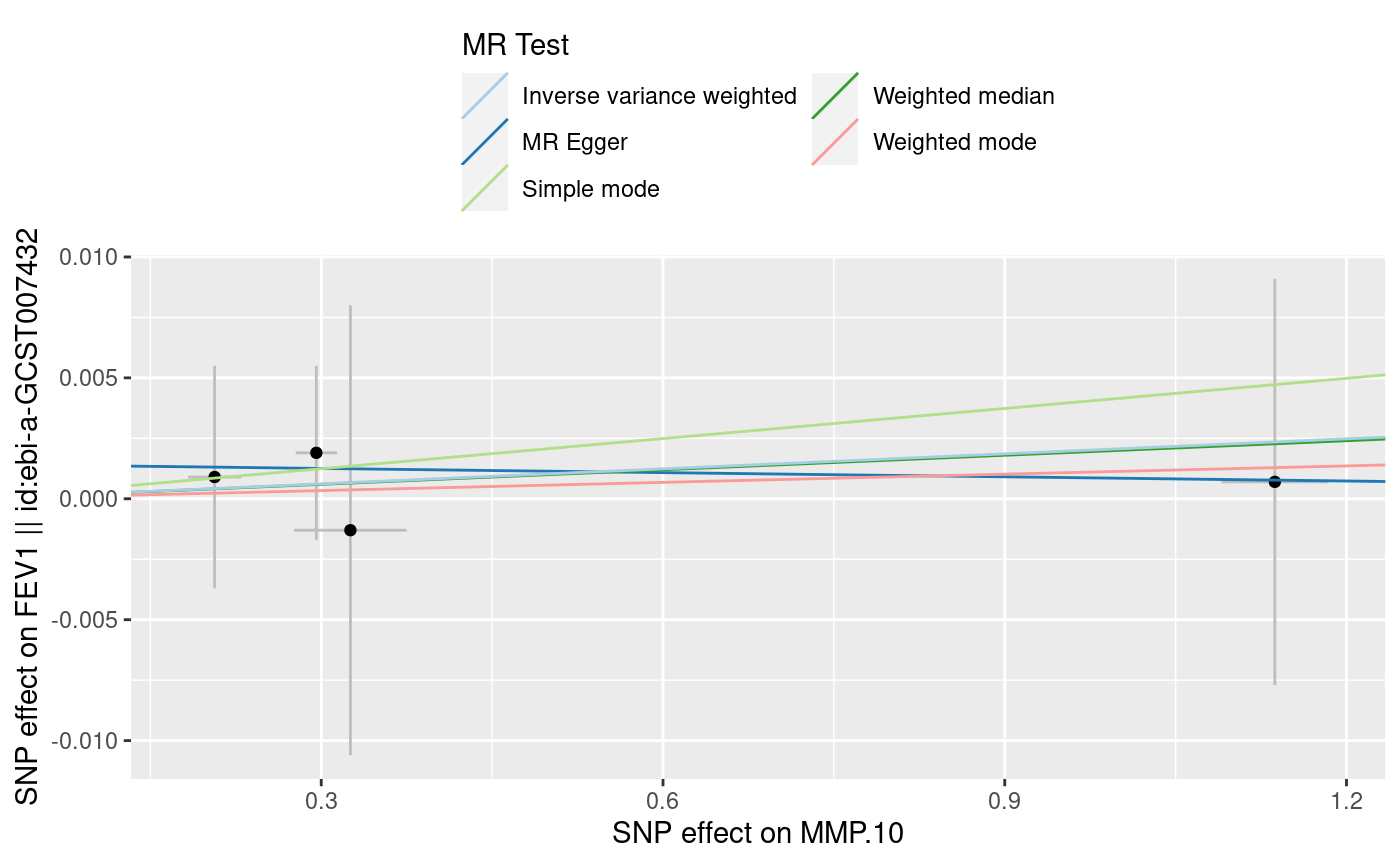
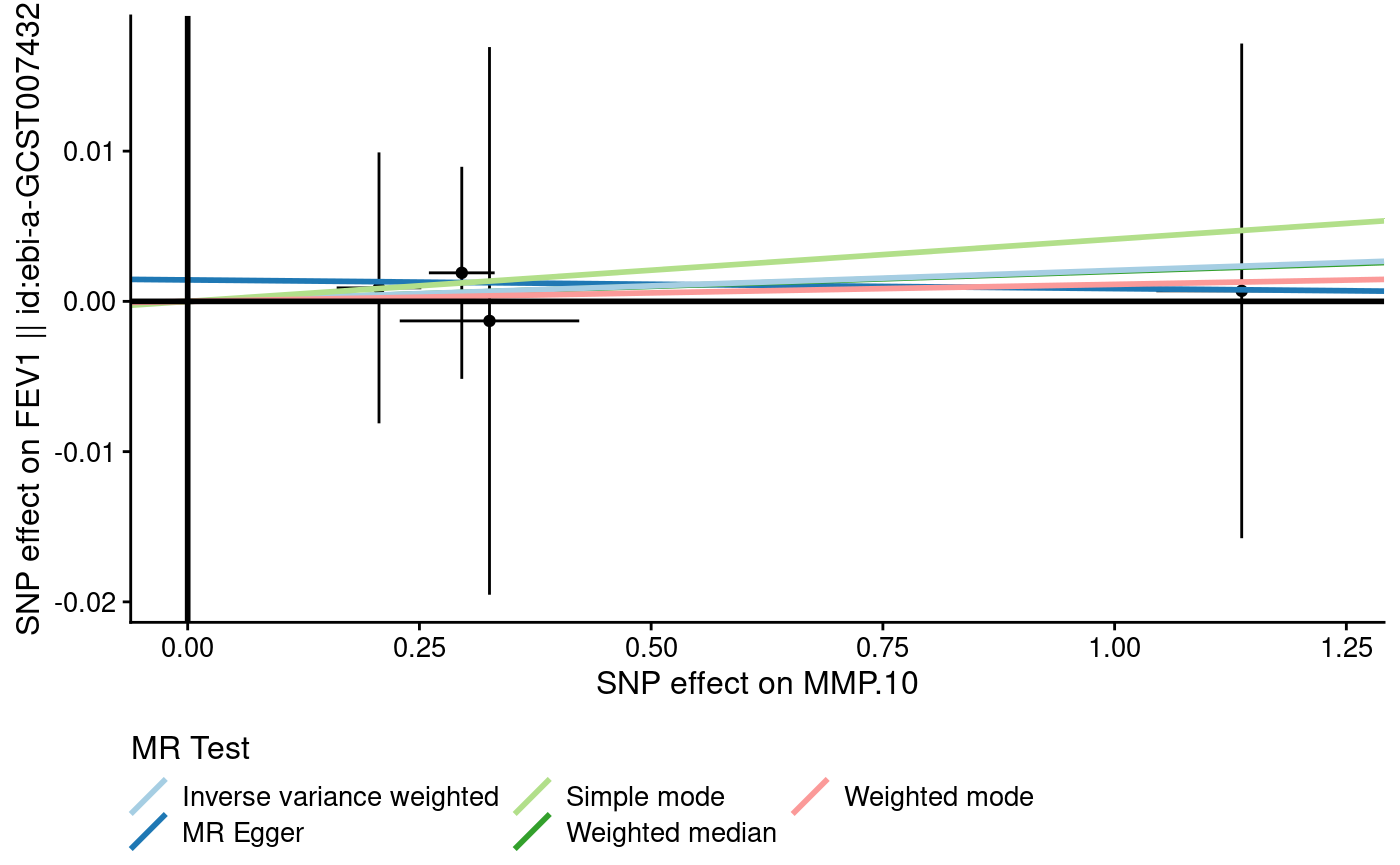
docs/

diff --git a/docs/articles/pQTLtools.html b/docs/articles/pQTLtools.html
@@ -886,7 +886,7 @@
 <span class="co">#&gt; Harmonising MMP.10 (ZoHewj) and FEV1 || id:ebi-a-GCST007432 (ebi-a-GCST007432)</span>
 <span class="va">input</span> <span class="op">&lt;-</span> <span class="fu"><a href="https://rdrr.io/r/base/list.html">list</a></span><span class="op">(</span><span class="va">exposure</span>,<span class="va">outcome</span>,<span class="va">clump</span>,<span class="va">harmonise</span><span class="op">)</span>
 <span class="va">prefix</span> <span class="op">&lt;-</span> <span class="fu"><a href="https://rdrr.io/r/base/paste.html">paste</a></span><span class="op">(</span><span class="va">outcomes</span>,<span class="va">prot</span>,<span class="va">type</span>,sep<span class="op">=</span><span class="st">"-"</span><span class="op">)</span>
-<span class="fu"><a href="../reference/run_TwoSampleMR.html">run_TwoSampleMR</a></span><span class="op">(</span><span class="va">input</span>, prefix<span class="op">=</span><span class="va">prefix</span><span class="op">)</span>
+<span class="fu"><a href="../reference/run_TwoSampleMR.html">run_TwoSampleMR</a></span><span class="op">(</span><span class="va">input</span>, plot<span class="op">=</span><span class="st">"New"</span>, prefix<span class="op">=</span><span class="va">prefix</span><span class="op">)</span>
 <span class="co">#&gt; r.exposure and/or r.outcome not present.</span>
 <span class="co">#&gt; Calculating approximate SNP-exposure and/or SNP-outcome correlations, assuming all are quantitative traits. Please pre-calculate r.exposure and/or r.outcome using get_r_from_lor() for any binary traits</span>
 <span class="co">#&gt; Estimating correlation for quantitative trait.</span>
